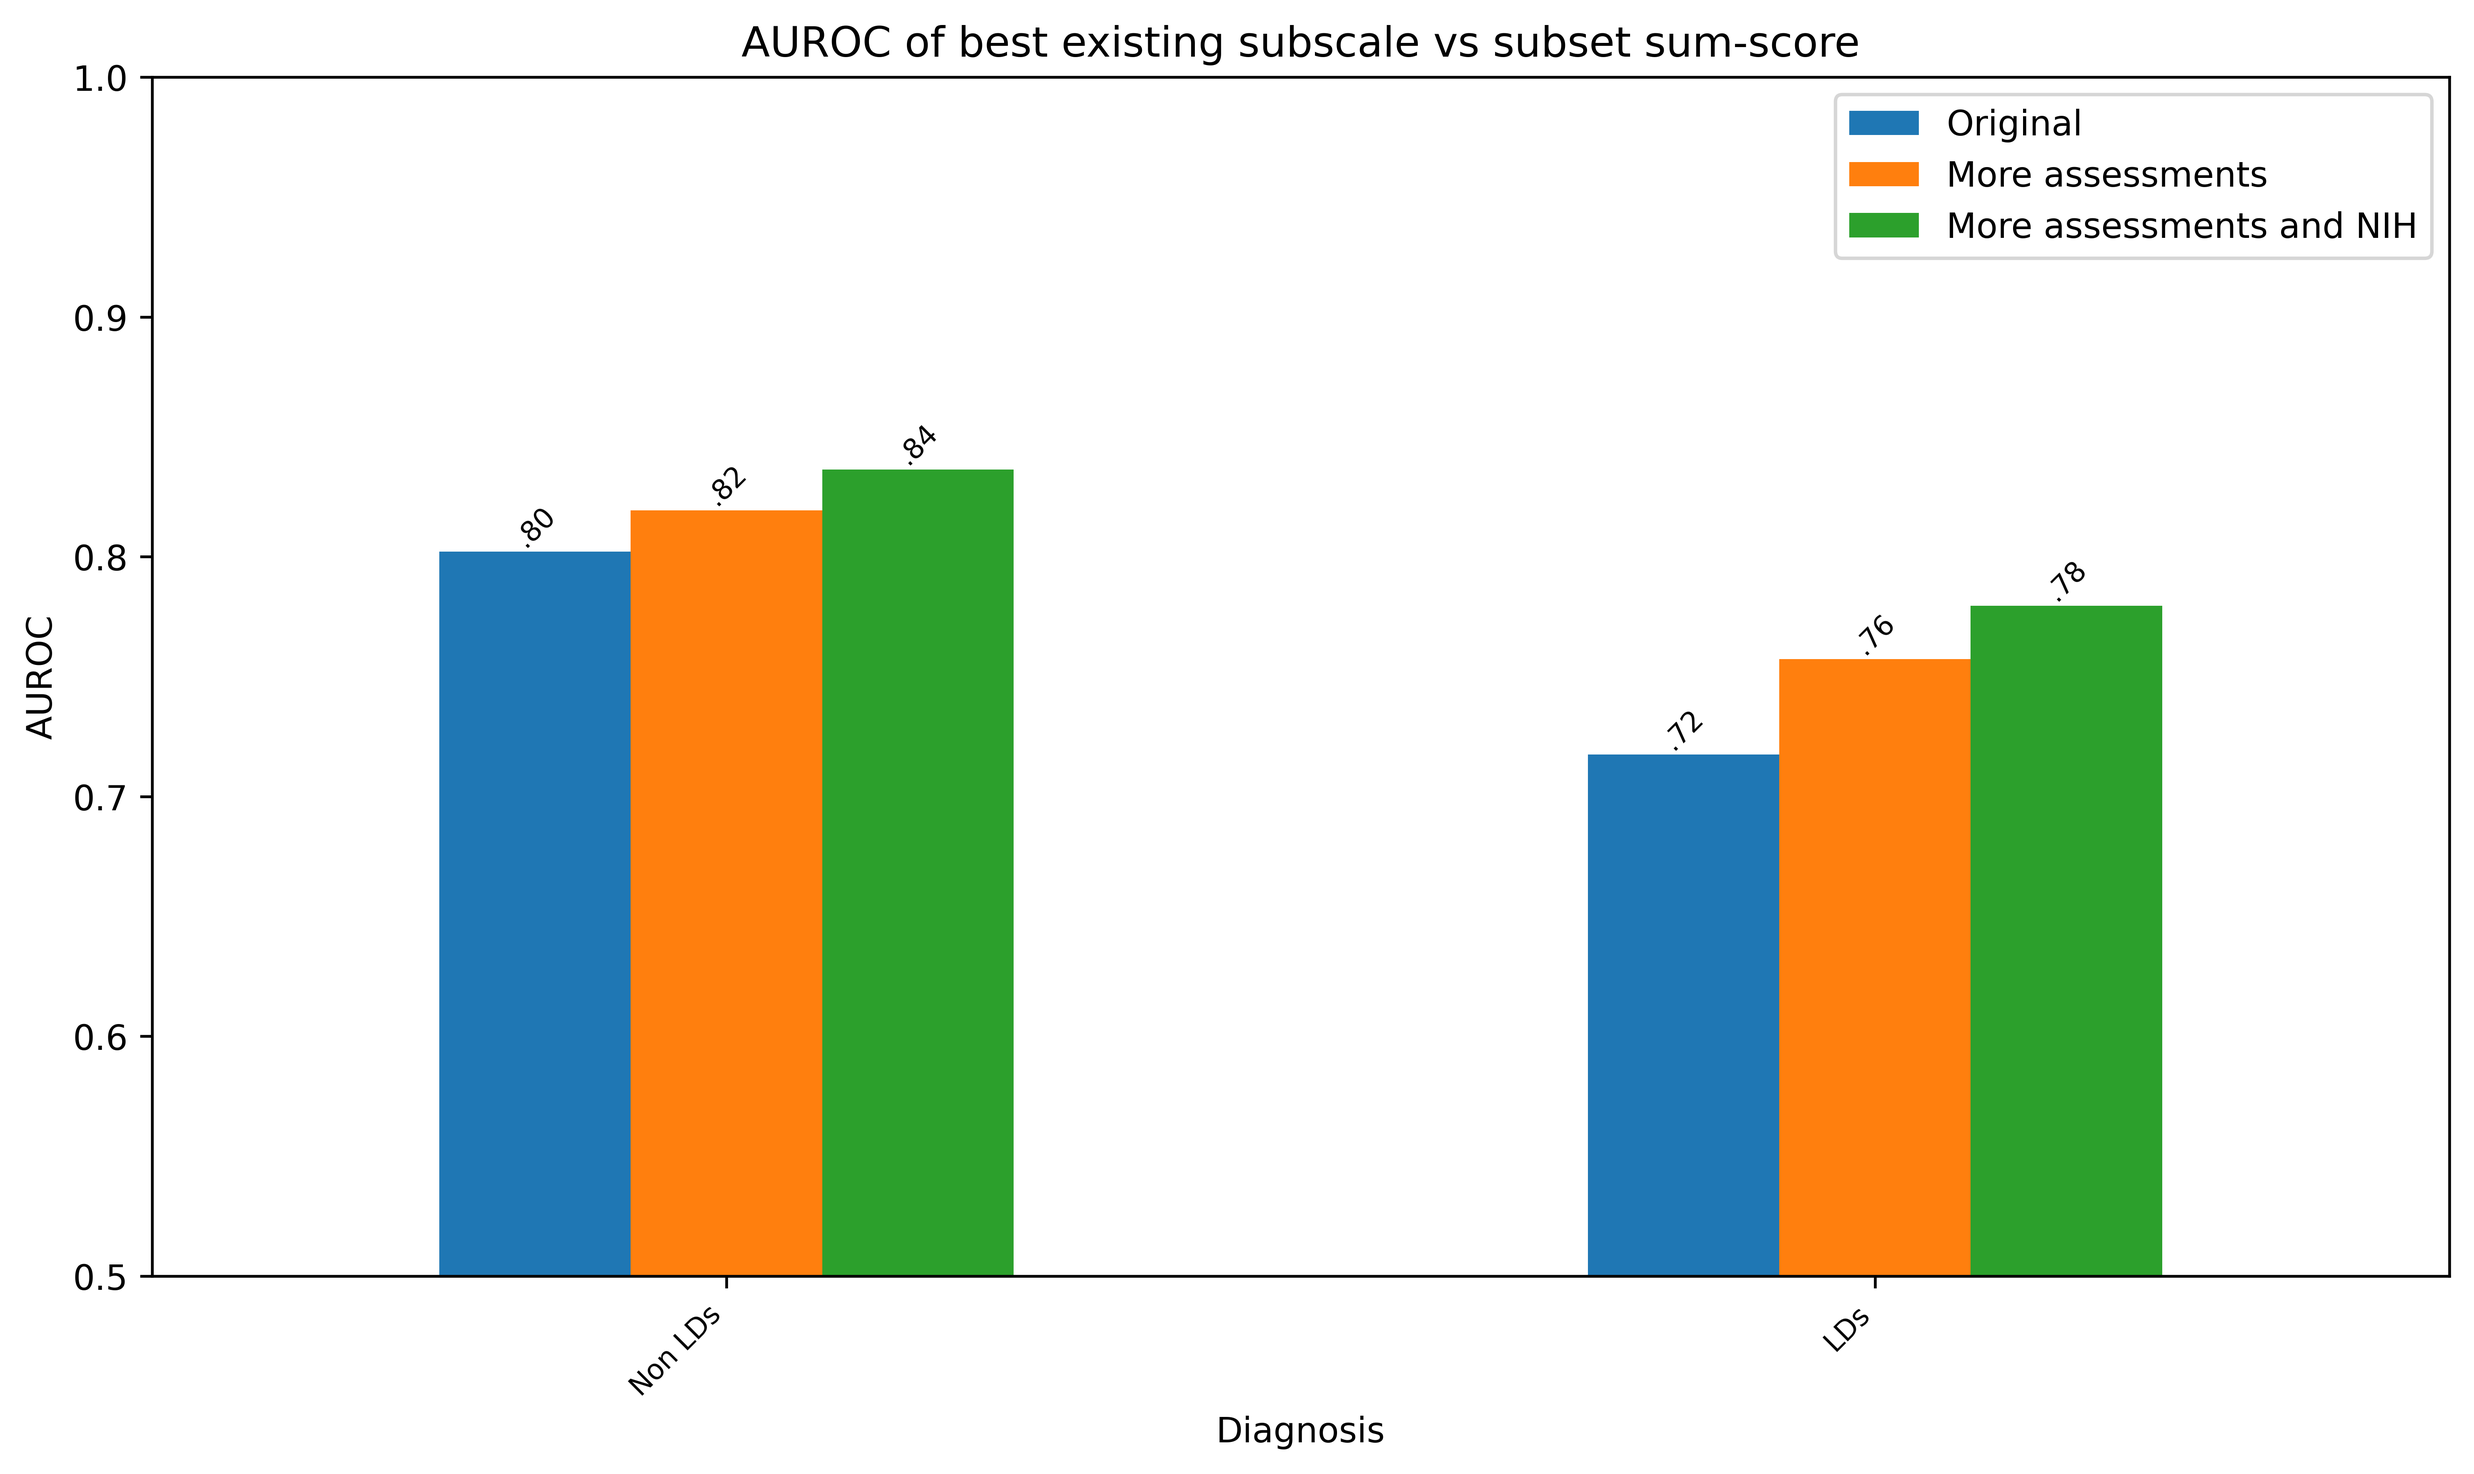
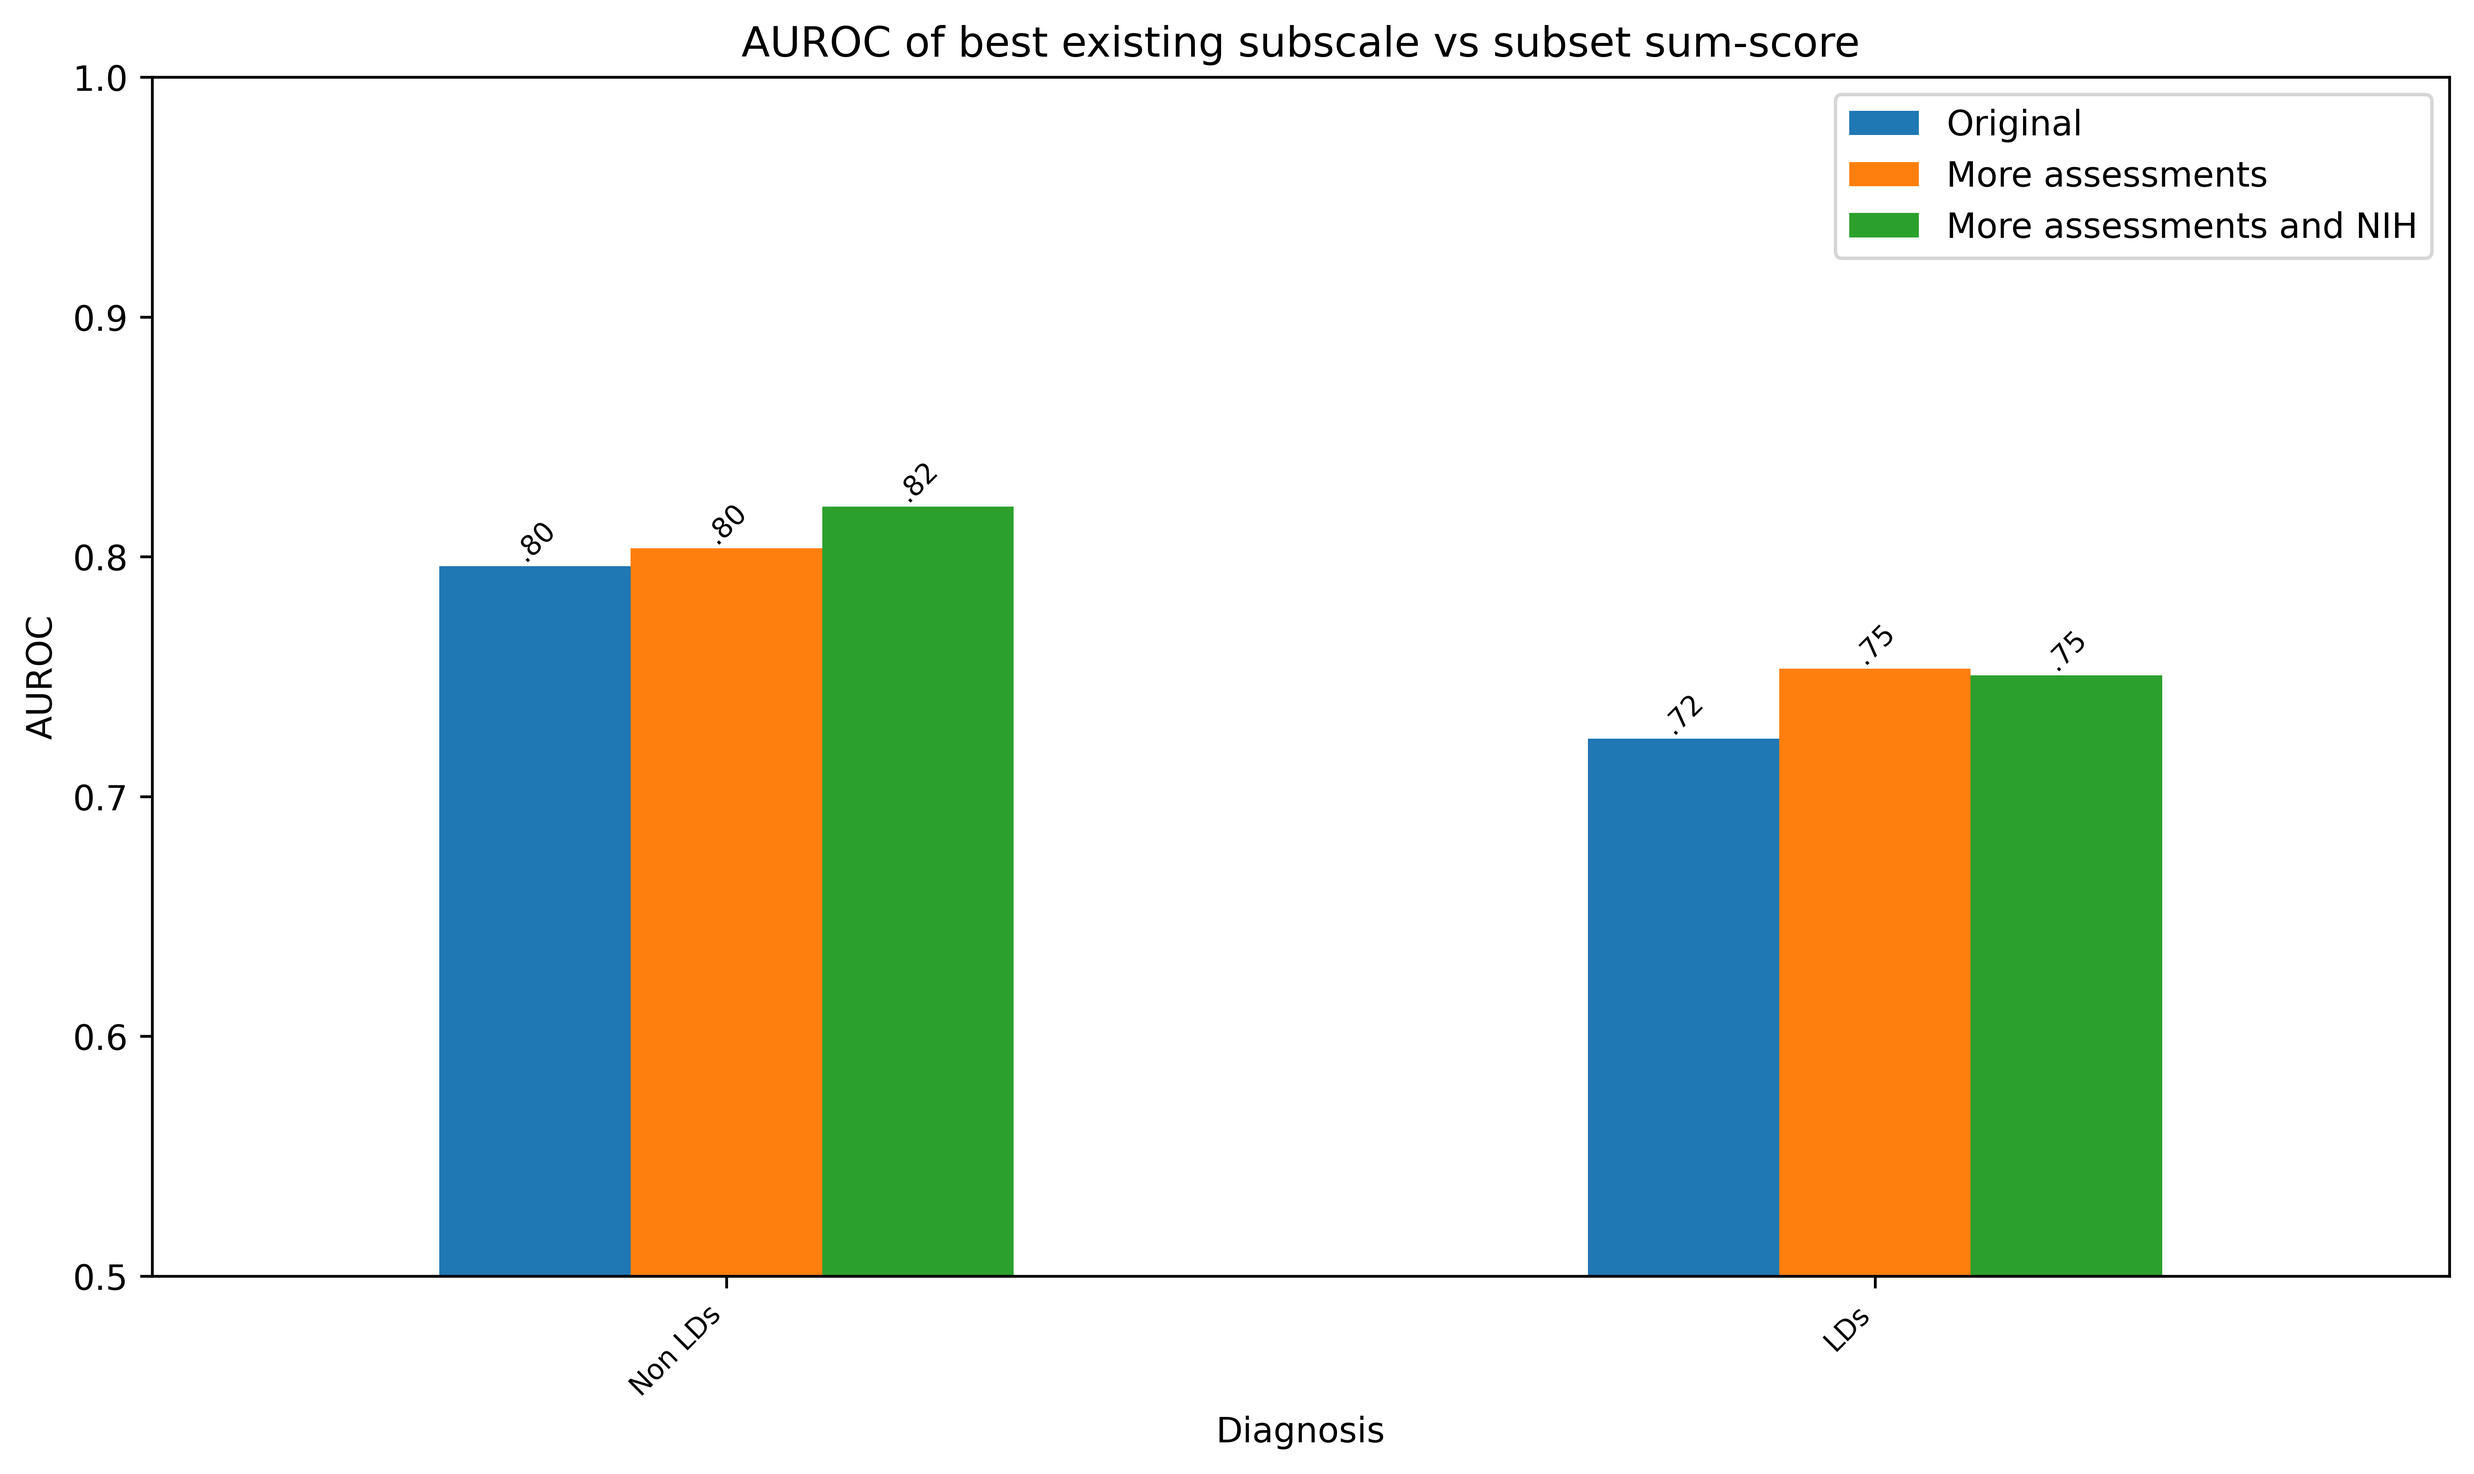
fix n for learning improvement report

diff --git a/make_final_tables.py b/make_final_tables.py
@@ -169,24 +169,27 @@ def make_dfs(data_reader):
     for data_type in ["item_lvl", "eval_orig", "eval_subsets", "make_ds", "eval_subsets_one_subset"]:
         file_filter = "eval_orig_test_set_file" if data_type == "eval_orig" else ""
         dfs[data_type+"_consensus_and_learning_all_parent_and_sr"] = data_reader.read_data(data_type = data_type, 
-                                                params = ["parent_and_sr", "multiple_assessments", "all_assessments", "learning_and_consensus_diags", "fix_n"],
+                                                params = ["parent_and_sr", "multiple_assessments", "all_assessments", "learning_and_consensus_diags", "fix_n_all"],
+                                                file_filter = file_filter)
+        dfs[data_type+"_consensus_and_learning_all_parent_and_sr_fix_n_learning"] = data_reader.read_data(data_type = data_type, 
+                                                params = ["parent_and_sr", "multiple_assessments", "all_assessments", "learning_and_consensus_diags", "fix_n_learning"],
                                                 file_filter = file_filter)
         dfs[data_type+"_consensus_and_learning_free_parent_and_sr"] = data_reader.read_data(data_type = data_type, 
-                                                params = ["parent_and_sr", "multiple_assessments", "free_assessments", "learning_and_consensus_diags", "fix_n"],
+                                                params = ["parent_and_sr", "multiple_assessments", "free_assessments", "learning_and_consensus_diags", "fix_n_all"],
                                                 file_filter = file_filter)
         dfs[data_type+"_consensus_and_learning_all_only_parent_report"] = data_reader.read_data(data_type = data_type, 
-                                                params = ["only_parent_report", "multiple_assessments", "all_assessments", "learning_and_consensus_diags", "fix_n"],
+                                                params = ["only_parent_report", "multiple_assessments", "all_assessments", "learning_and_consensus_diags", "fix_n_all"],
                                                 file_filter = file_filter)
         dfs[data_type+"_consensus_and_learning_free_only_parent_report"] = data_reader.read_data(data_type = data_type, 
-                                                params = ["only_parent_report", "multiple_assessments", "free_assessments", "learning_and_consensus_diags", "fix_n"],
+                                                params = ["only_parent_report", "multiple_assessments", "free_assessments", "learning_and_consensus_diags", "fix_n_all"],
                                                 file_filter = file_filter)
     # Learning
     for data_type in ["eval_subsets"]:
         dfs[data_type+"_learning_NIH"] = data_reader.read_data(data_type = data_type, 
-                                                params = ["parent_and_sr", "multiple_assessments", "all_assessments", "only_learning_diags", "NIH"],
+                                                params = ["parent_and_sr", "multiple_assessments", "all_assessments", "only_learning_diags", "NIH", "fix_n_learning"],
                                                 file_filter = file_filter)
         dfs[data_type+"_learning_no_NIH"] = data_reader.read_data(data_type = data_type, 
-                                                params = ["parent_and_sr", "multiple_assessments", "all_assessments", "only_learning_diags", "no_NIH"],
+                                                params = ["parent_and_sr", "multiple_assessments", "all_assessments", "only_learning_diags", "no_NIH", "fix_n_learning"],
                                                 file_filter = file_filter)
     
     # Manual scoring
@@ -255,9 +258,9 @@ if __name__ == "__main__":
     eval_subsets_df.to_csv("output/eval_subsets.csv")
     compare_orig_vs_subsets_df.to_csv("output/compare_orig_vs_subsets.csv")
 
-    ### Learning diags improvements ###
-    learning_improvement_df = make_df_learning_improvements(dfs["eval_subsets_consensus_and_learning_all_parent_and_sr"], dfs["eval_subsets_learning_NIH"], dfs["eval_subsets_learning_no_NIH"], all_diags = False)
-    learning_improvement_all_diags_df = make_df_learning_improvements(dfs["eval_subsets_consensus_and_learning_all_parent_and_sr"], dfs["eval_subsets_learning_NIH"], dfs["eval_subsets_learning_no_NIH"], all_diags = True)
+    ### Learning diags improvements ### 
+    learning_improvement_df = make_df_learning_improvements(dfs["eval_subsets_consensus_and_learning_all_parent_and_sr_fix_n_learning"], dfs["eval_subsets_learning_NIH"], dfs["eval_subsets_learning_no_NIH"], all_diags = False)
+    learning_improvement_all_diags_df = make_df_learning_improvements(dfs["eval_subsets_consensus_and_learning_all_parent_and_sr_fix_n_learning"], dfs["eval_subsets_learning_NIH"], dfs["eval_subsets_learning_no_NIH"], all_diags = True)
     
     learning_improvement_df.to_csv("output/learning_improvements.csv")
     learning_improvement_all_diags_df.to_csv("output/learning_improvements_all_diags.csv")

diff --git a/make_plots.py b/make_plots.py
@@ -167,7 +167,6 @@ def add_formatted_labels_to_bars(ax, container):
     return ax
 
 def plot_manual_vs_ml_bars(df, diags, filename, title, col_dict):
-    print("DEBUG\n", df, col_dict)
     df = df.sort_values(by=list(col_dict.keys())[0], ascending=False)
 
     # Filter df to only include the diagnoses in diags
@@ -361,10 +360,6 @@ def make_averages_for_learning_improvements(learning_improvement_df):
     for index, diags in index_dict.items():
         diags = [diag for diag in diags if diag in df.index] # Remove diagnoses not in df
         for col in df.columns:
-            print("\n\nDEBUG", col, df_averages.columns), 
-            print("DEBUG", col_dict[col], df.columns)
-            print("DEBUG", df.loc[diags])
-            print("DEBUG", df_averages.loc[index])
             df_averages.loc[index, col_dict[col]] = df.loc[diags, col].mean()
     
     print("df_averages:\n", df_averages)
@@ -674,7 +669,7 @@ def main():
     #plot_group_bar_plots_for_subsets(compare_orig_subsets_df, sum_scores_df)
 
     #plot_learning_improvements(learning_improvement_df)
-    #plot_learning_improvements_bars(learning_improvement_df)
+    plot_learning_improvements_bars(learning_improvement_df)
     plot_average_learning_improvements(learning_improvement_df)
 
     #opt_n_features_per_diag = get_opt_n_features_per_diag(compare_orig_subsets_df)

diff --git a/data_reading.py b/data_reading.py
@@ -34,7 +34,8 @@ class DataReader:
         "learning_and_consensus_diags": "learning?__0",
         "NIH": "NIH?__1",
         "no_NIH": "NIH?__0",
-        "fix_n": "fix_n__1",
+        "fix_n_all": "fix_n__1", # rename to fix_n_all__1 when new data is generated
+        "fix_n_learning": "fix_n_learning__1",
     }
     FILE_FILTER_MAPPING = {
         "eval_orig_test_set_file": "performance_table_all_features_test_set.csv",
@@ -49,7 +50,7 @@ class DataReader:
         self.file_filter = self.FILE_FILTER_MAPPING[file_filter] if file_filter else ""
         self.data_type_path = self.DATA_TYPE_TO_PATH_MAPPING[data_type]
 
-        if self.data_type_path != None:
+        if self.data_type_path is not None:
             self.data_path = self._generate_data_path()
             print("Reading data from: ", self.data_path)
 
